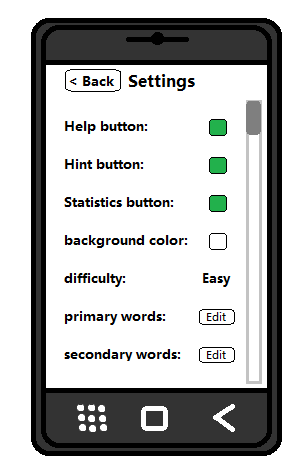
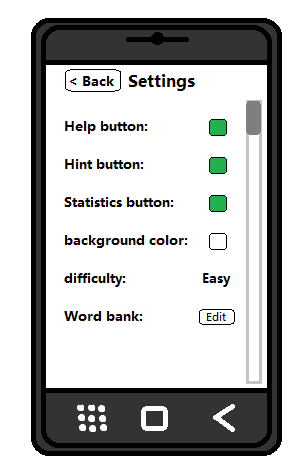
Update Iteration1.md, img/settings_screen.png, img/word_screen.png files

Changed region(s): [[0.2052, 0.7353, 0.5863, 0.7647], [0.2052, 0.6471, 0.557, 0.7059], [0.645, 0.7353, 0.7329, 0.7647]]

diff --git a/Iteration1.md b/Iteration1.md
@@ -26,7 +26,7 @@ touching the setting icon should open a new window which willl display various c
 <img src="img/settings_button.png">
 <img src="img/settings_screen.png">
 
-> As an advanced language learner, I want a statistic button which displays my statistics in the game, so that I can keep track of my progress.
+> As an expert user of the app, I want a statistic button which displays my statistics in the game, so that I can keep track of my progress.
 
 The app will feature a button with a statistics that will be displayed on the corner of the screen. When the user clicks the button it will display a popup window. This window will display various statistics of the user which include:
 - the total number of wins the player has achieved
@@ -40,20 +40,26 @@ On the sketch below, the statistics button can be seen circled in red. The popup
 <img src="img/stat_button.png">
 <img src="img/stat_screen.png">
 
+> As an expert user of the app, I want to be able to add additional words into the word bank, so that i can adjust the difficulty of the game to suit my language comprehension level.
+
+The app will feature a word bank which contains word pairs from 2 different languages. The word bank will be accessible through the settings menu by scrolling to the section labeled "word bank" and pressing on the button labeled "edit" which will open up a popup window. This window will allow users to add or remove word pairs. The popup menu is also shown below
+
+<img src="img/word_screen.png">
+
 ## Beginner Language Learners
-> As a beginner language learner, I want the system to decide which vocabularies should be used for a particular match of Sudoku with a certain degree of variety in words.
+> As a beginner language learner, I want the option of a easy difficulty, so i can practice and play the game at my skill level
 
-At this level when user chooses the option of beginner language learner, the system has to come up with variety of simple words chosen randomly from the database of two different languages and display them some in the grid of 9*9 and some outside the grid.
-
+The app will feature a easy difficulty for the game. The hard difficulty will randomly choose words that are marked as "easy" in the word bank upon starting a new game. The game can be set to the "easy" difficulty by clicking on the settings button on the top of the screen and navigating to the section labeled "difficulty" and selecting the value "easy". The new difficulty will be applied upon starting a new game.
 
 ## Intermediate Language Learners
-> As an intermediate language learner, I want the system to level up the game and test me with some not so common words, so that I can learn deeper into the language I am learning.
+> As a intermediate language learner, I want the option of a medium difficulty, so i can practice and play the game at my skill level
 
-When seleting the option as Intermediate language learner, The system should automatically choose the longer or more difficult words and fill the grid randomly again for the user to play the game
-
+The app will feature a medium difficulty for the game. The hard difficulty will randomly choose words that are marked as "medium" in the word bank upon starting a new game. The game can be set to the "medium" difficulty by clicking on the settings button on the top of the screen and navigating to the section labeled "difficulty" and selecting the value "medium". The new difficulty will be applied upon starting a new game.
 
 ## Advanced Language Learner
-> As an advanced language learner, I want to be able to add additional words into the word bank, so that i can adjust the difficulty of the game to suit my language comprehension level.
+> As a advanced language learner, I want the option of a hard difficulty, so i can practice and play the game at my skill level.
 
-The system will have an option to display the default bank of words and have the ability to remove/add new words to the users preferences.
+The app will feature a hard difficulty for the game. The hard difficulty will randomly choose words that are marked as "hard" in the word bank upon starting a new game. The game can be set to the "hard" difficulty by clicking on the settings button on the top of the screen and navigating to the section labeled "difficulty" and selecting the value "hard". The new difficulty will be applied upon starting a new game.
+
+
 
